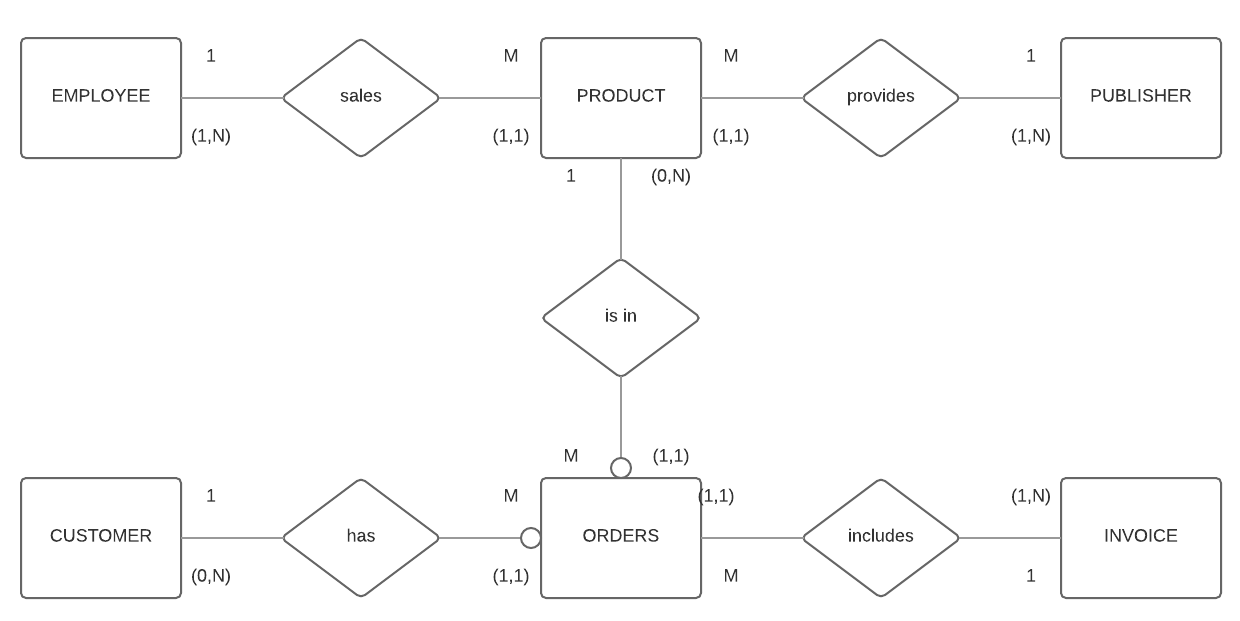
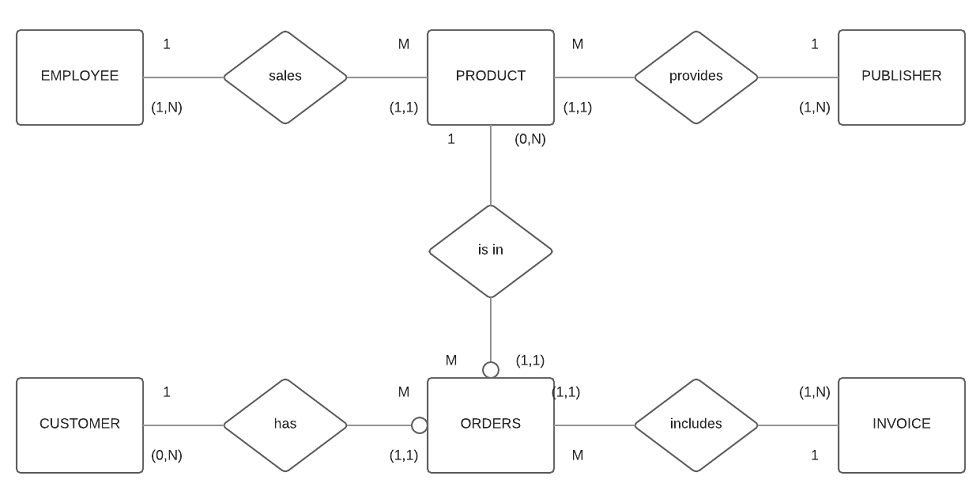
add ERD

diff --git a/environment.html b/environment.html
@@ -440,6 +440,7 @@
                 <div class="container">
                     <div class="ui basic segment">
                         <h3 class="ui header"><img class="header_icon" src="/images/icon/diagram_icon.png">ER Diagram</h3>
+                        <img src="/images/diagram/ERD.png">
                     </div>
                 </div>
             </div>

diff --git a/css/main.css b/css/main.css
@@ -46,3 +46,4 @@ a:active{
 h3>img.header_icon{
 	width:3% !important;
 	margin-top: -1% !important;
+}
